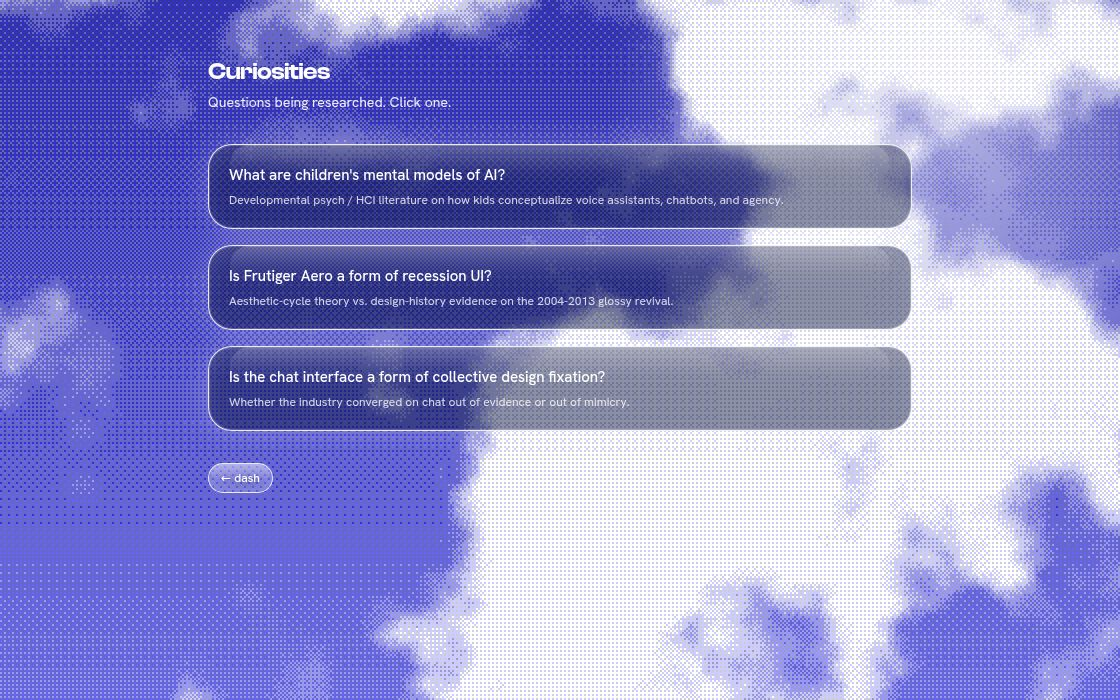
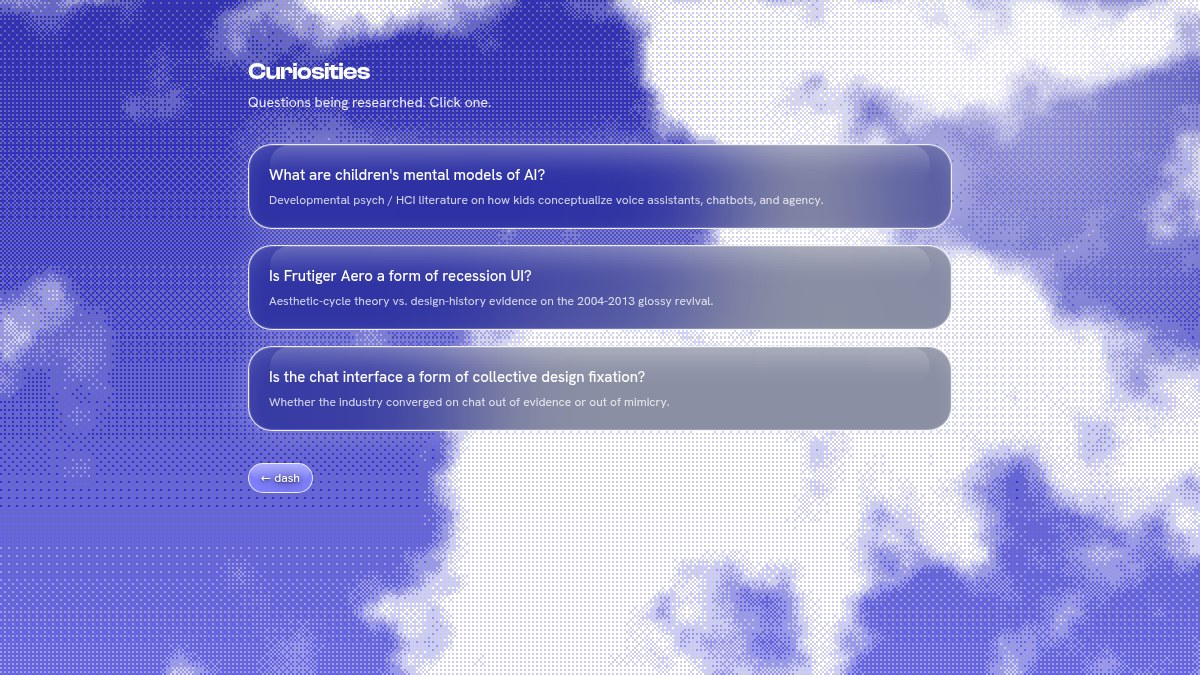
v22: real link-preview thumbnails + white-ink readability (agent work)

diff --git a/src/app/globals.css b/src/app/globals.css
@@ -95,7 +95,7 @@ body {
   position: relative;
   overflow: hidden;
   color: #fff;
-  text-shadow: 0 1px 8px rgba(8, 16, 64, 0.6);
+  text-shadow: 0 1px 2px rgba(6, 10, 44, 0.55), 0 1px 10px rgba(8, 12, 50, 0.85), 0 2px 26px rgba(8, 12, 50, 0.5);
   background: rgba(255, 255, 255, 0.2);
   backdrop-filter: blur(36px) saturate(1.3) brightness(1.05);
   -webkit-backdrop-filter: blur(36px) saturate(1.3) brightness(1.05);
@@ -311,7 +311,7 @@ body {
   font-size: 12px;
   font-weight: 600;
   color: #fff;
-  text-shadow: 0 1px 8px rgba(8, 12, 50, 0.5);
+  text-shadow: 0 1px 2px rgba(6, 10, 44, 0.55), 0 1px 9px rgba(8, 12, 50, 0.85), 0 2px 22px rgba(8, 12, 50, 0.5);
   padding: 5px 12px;
   border-radius: 999px;
   background: rgba(255, 255, 255, 0.16);
@@ -349,7 +349,7 @@ body {
 .card-visual-shade {
   position: absolute;
   inset: 0;
-  background: linear-gradient(180deg, rgba(10, 12, 44, 0.22), transparent 30%, transparent 62%, rgba(9, 12, 44, 0.45));
+  background: linear-gradient(180deg, rgba(10, 12, 44, 0.42), transparent 34%, transparent 60%, rgba(9, 12, 44, 0.5));
   pointer-events: none;
 }
 .card-visual-frost {
@@ -376,12 +376,12 @@ body {
 
 /* info panel zone under the visual */
 .vglass-panel {
-  background: linear-gradient(180deg, rgba(252, 252, 254, 0.34), rgba(248, 248, 252, 0.2));
+  background: linear-gradient(180deg, rgba(20, 24, 72, 0.12), rgba(20, 24, 72, 0.2)), linear-gradient(180deg, rgba(252, 252, 254, 0.34), rgba(248, 248, 252, 0.2));
   backdrop-filter: blur(120px) saturate(1.5) brightness(1.08);
   -webkit-backdrop-filter: blur(120px) saturate(1.5) brightness(1.08);
   border-top: 1px solid rgba(255, 255, 255, 0.35);
   color: #fff;
-  text-shadow: 0 1px 10px rgba(8, 12, 50, 0.45);
+  text-shadow: 0 1px 2px rgba(6, 10, 44, 0.6), 0 1px 10px rgba(8, 12, 50, 0.9), 0 2px 28px rgba(8, 12, 50, 0.55);
 }
 
 /* list rows inside pr / homework cards: glass capsules */
@@ -432,7 +432,7 @@ body {
     inset 0 1px 0 rgba(255, 255, 255, 0.7),
     0 18px 40px rgba(6, 8, 38, 0.35);
   color: #fff;
-  text-shadow: 0 1px 10px rgba(8, 12, 50, 0.45);
+  text-shadow: 0 1px 2px rgba(6, 10, 44, 0.6), 0 1px 10px rgba(8, 12, 50, 0.9), 0 2px 28px rgba(8, 12, 50, 0.55);
 }
 .vglass-bar .vbtn {
   color: #fff;

diff --git a/src/components/stage.tsx b/src/components/stage.tsx
@@ -261,7 +261,7 @@ export function Stage({
       {/* wordmark: very top left, larger, white, straight on the sky - no glass */}
       <div
         className="font-display fixed left-5 top-4 z-50 text-[24px] font-semibold tracking-tight text-white"
-        style={{ textShadow: "0 2px 18px rgba(8, 12, 50, 0.65)" }}
+        style={{ textShadow: "0 1px 2px rgba(6, 10, 44, 0.6), 0 2px 14px rgba(8, 12, 50, 0.9), 0 4px 32px rgba(8, 12, 50, 0.55)" }}
       >
         DEFNE DASH
       </div>
